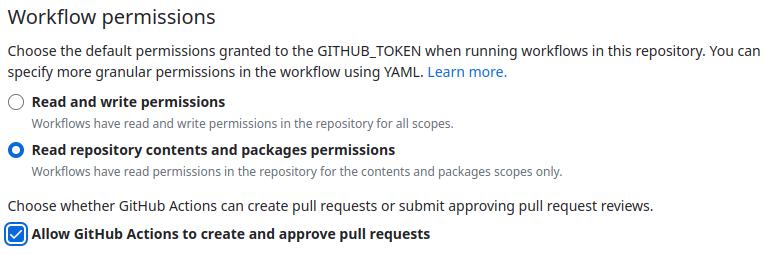
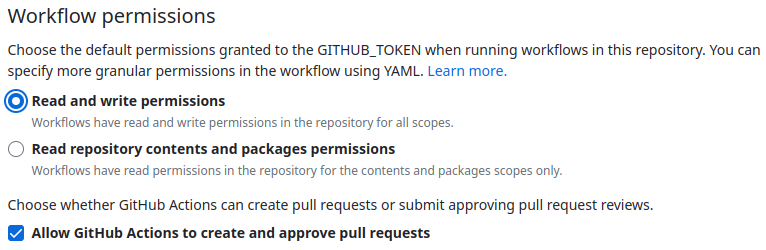
update instructions for the GITHUB_TOKEN used by Changesets

diff --git a/README.md b/README.md
@@ -64,6 +64,6 @@ npx changeset status
 
 4: Commit your changes and push them to the remote repository. The [Changesets Release Action](https://github.com/changesets/action) will take care of publishing all affected packages to npm.js.
 
-In order to work, Changesets Release Action requires that the `GITHUB_TOKEN` has the necessary permissions to create a Pull Request. On the GitHub repo,go to `Settings` → `Actions` → `General` → `Workflow permissions` and enable this checkbox.
+In order to work, Changesets Release Action requires that the `GITHUB_TOKEN` has **Read and write permissions** and can create a Pull Request. To set the permissions of the default `GITHUB_TOKEN` used in the workflows of this GitHub repo, go to `Settings` → `Actions` → `General` → `Workflow permissions`.
 
 ![GitHub Workflow permissions required for Changesets Release Action](./assets/images/github-workflow-permissions.png)
